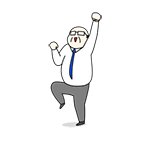
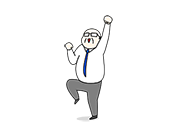
おじどうしてもがびくなっちゃうわ

Changed region(s): [[0.32, 0.0593, 0.6933, 0.9185]]

diff --git a/components/Test2.js b/components/Test2.js
@@ -314,10 +314,10 @@ function Game({navigation}){
         </TouchableOpacity>
 
         {/* 左上 */}
-        <TouchableOpacity style={{position:'absolute',top:205,left:30,zIndex:2,padding:10}} onPress={()=> navigation.navigate('GameModal',{i})}>
+        <TouchableOpacity style={{position:'absolute',top:205,zIndex:2,padding:10}} onPress={()=> navigation.navigate('GameModal',{i})}>
           <Image 
             source={require("../assets/img/oji_1.png")}
-            style={{width:150,}}
+            style={{width:180,}}
           />
         </TouchableOpacity>
         {/* 右上 */}
@@ -331,14 +331,14 @@ function Game({navigation}){
         <TouchableOpacity style={{position:'absolute',top:430,zIndex:2,padding:10}} onPress={()=> navigation.navigate('GameModal',{i:i+2})}>
           <Image 
             source={require("../assets/img/oji_3.png")}
-            style={{width:180}}
+            style={{width:230}}
           />
         </TouchableOpacity>
         {/* 右下 */}
-        <TouchableOpacity style={{position:'absolute',top:400,right:30,zIndex:2,padding:10}} onPress={()=> navigation.navigate('GameModal',{i:i+3})}>
+        <TouchableOpacity style={{position:'absolute',top:420,right:10,zIndex:2,padding:10}} onPress={()=> navigation.navigate('GameModal',{i:i+3})}>
           <Image 
             source={require("../assets/img/oji_4.png")}
-            style={{width:180}}
+            style={{width:200}}
           />
         </TouchableOpacity>
 
